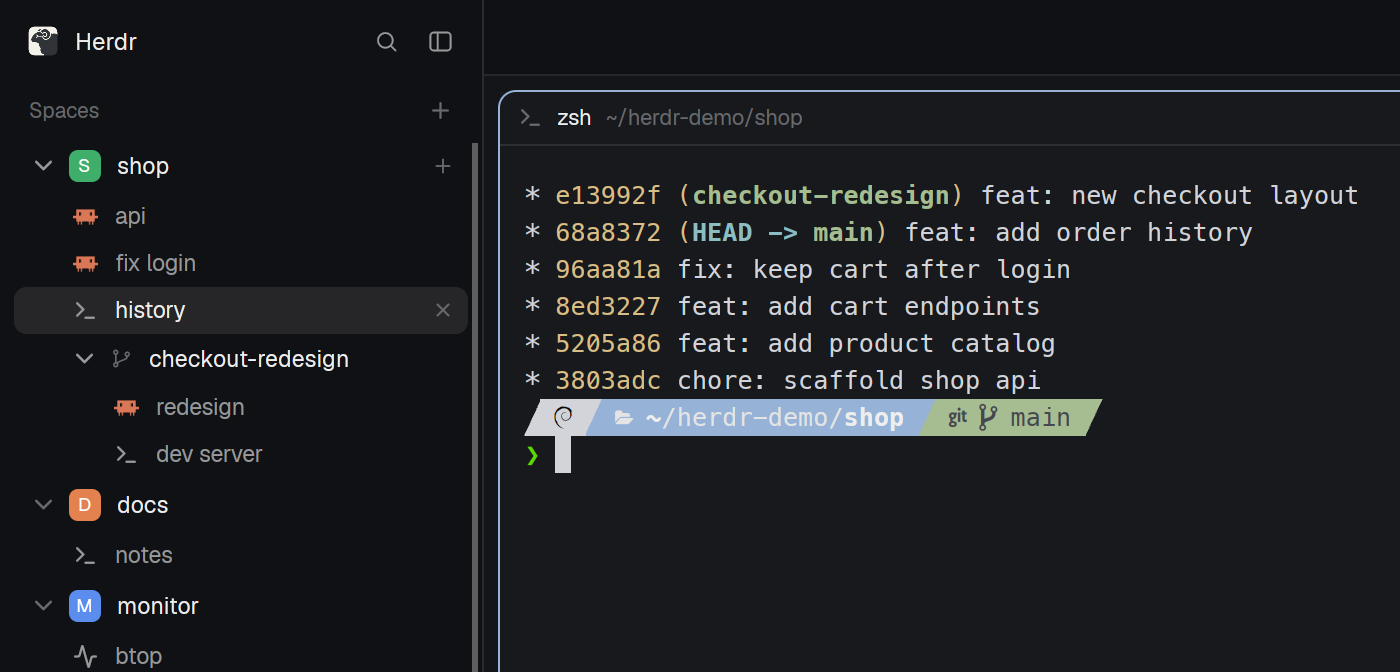
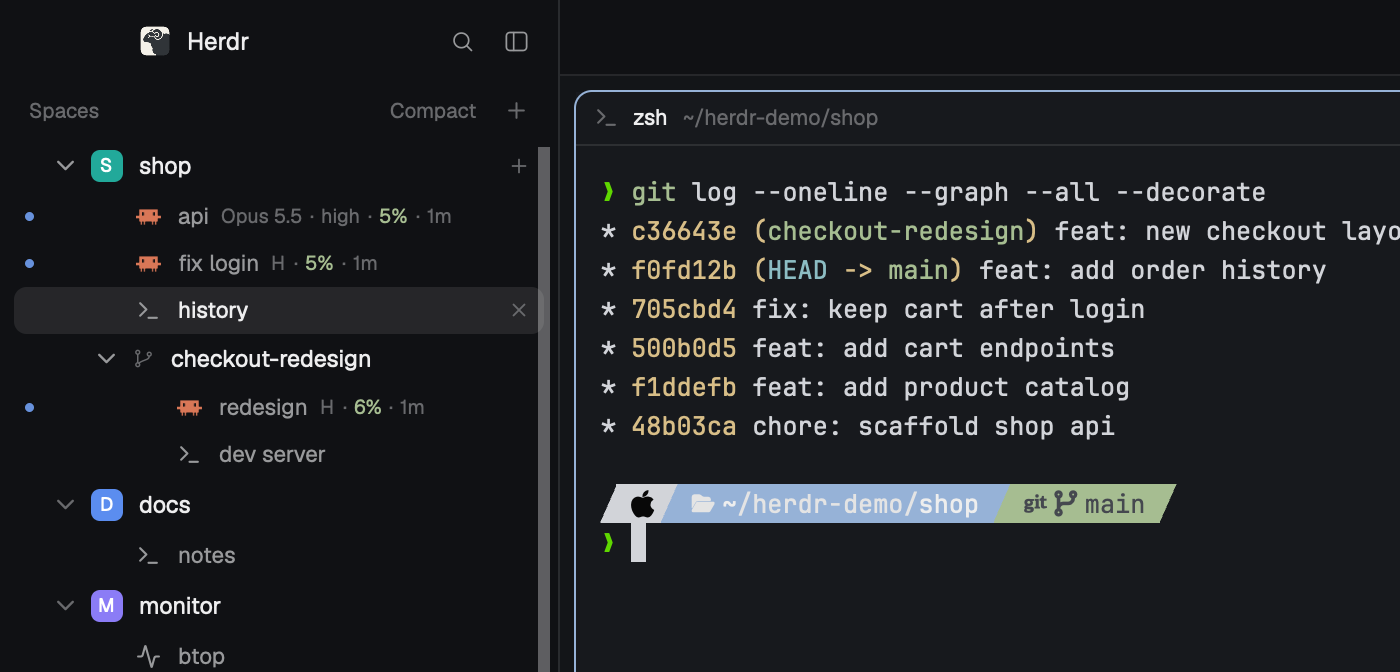
docs: retake preview with agent details
Demo spaces as before, now showing the status column and agent details.

diff --git a/README.md b/README.md
@@ -151,7 +151,7 @@ these files, they are clones and not its shipped mods.
 - [x] Top bar without tab chips (chips as an option)
 - [x] Agent details and sub-agents in the sidebar, compact or detailed
 - [x] Timeline button when the panel holds Over9k's Timeline
-- [ ] Retake `preview.png` with the agent details
+- [x] Retake `preview.png` with the agent details
 - [ ] Merge the changes from newer Herdr releases of `spaces` and `tabs`
 - [x] `RECIPE.md` and the `herdr-layout` topic for [herdr.dev/layouts](https://herdr.dev/layouts)
 
